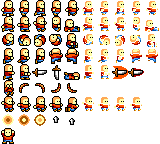
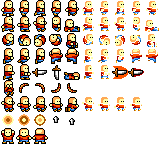
Partial implementation of door

Changed region(s): [[0.0938, 0.8889, 0.3125, 1.0]]

diff --git a/src/door.js b/src/door.js
@@ -1,0 +1,109 @@
+/**
+ * A Graveyard for Fools
+ * 
+ * (c) 2020 Jani Nykänen
+ */
+
+import { Flip } from "./core/canvas.js";
+import { Sprite } from "./core/sprite.js";
+import { TransitionType } from "./core/transition.js";
+import { RGB, Vector2 } from "./core/vector.js";
+import { InteractableObject } from "./interactableobject.js";
+
+
+export class Door extends InteractableObject {
+
+
+    constructor(x, y, inside, id) {
+
+        super(x, y);
+
+        this.active = false;
+
+        this.inside = inside;
+        this.link = null;
+
+        this.spr = new Sprite(32, 32);
+        this.hitbox = new Vector2(8, 32);
+
+        this.id = id;
+
+        this.isDoor = true;
+
+        this.open = inside;
+        this.opened = inside;
+    }
+
+
+    linkDoor(o) {
+
+        this.link = o;
+    }
+
+
+    update(ev) {
+
+        const OPEN_SPEED = 8;
+
+        if (this.open && !this.opened) {
+
+            this.spr.animate(0, 0, 4, OPEN_SPEED, ev.step);
+            this.opened = this.spr.frame == 4;
+        }
+    }
+
+
+    draw(c) {
+
+        if (!this.inCamera || this.opened) return;
+
+        this.spr.draw(c, c.bitmaps["door"],
+            this.pos.x-16, this.pos.y-16,
+            Flip.None);
+    }
+
+    
+    triggerEvent(message, pl, cam, ev) {
+
+        let loc = ev.assets.localization["en"];
+
+        if (!this.open) {
+
+            if (pl.progress.keys <= 0) {
+
+                message.addMessage(loc["needKey"]).activate(ev => {}, false);
+                return;
+            }
+
+            message.addMessage(
+                loc["openDoor"],
+                ).activate((ev) => {
+
+                this.open = true;
+                this.opened = false;
+                pl.progress.addKeys(-1);
+
+            }, true);
+            return;
+        }     
+
+        ev.tr.activate(true, TransitionType.CircleOutside, 
+            1.0/30.0, 
+            (ev) => {
+
+            let p = this.link.pos.clone();
+            p.y += 8;
+
+            pl.moveTo(p, cam);
+
+            pl.setDoorPose(true);
+
+        }, new RGB(0, 0, 0));
+        ev.tr.setCenter(this.pos.x % 160, this.pos.y % 144);
+
+        pl.pos.x = this.pos.x;
+
+        pl.setDoorPose(false);
+    }
+
+}

diff --git a/src/objectmanager.js b/src/objectmanager.js
@@ -9,6 +9,7 @@ import { Bullet } from "./bullet.js";
 import { Chest } from "./chest.js";
 import { Collectible } from "./collectible.js";
 import { clamp, nextObject } from "./core/util.js";
+import { Door } from "./door.js";
 import { getEnemyType } from "./enemytypes.js";
 import { FlyingText } from "./flyingtext.js";
 import { NPC } from "./npc.js";
@@ -29,6 +30,26 @@ export class ObjectManager {
         this.interactableObjects = new Array();
 
         this.progress = progress;
+    }
+
+
+    linkDoors() {
+
+        for (let o of this.interactableObjects) {
+
+            if (o.isDoor != undefined) {
+
+                for (let p of this.interactableObjects) {
+
+                    if (p.isDoor != undefined && p.id == o.id &&
+                        p.inside != o.inside) {
+
+                        p.linkDoor(o);
+                        o.linkDoor(p);
+                    }
+                }
+            }
+        }
     }
 
 
@@ -81,6 +102,13 @@ export class ObjectManager {
                     this.interactableObjects.push(new NPC(x*16+8, y*16+8, id));
                     break;
 
+                // Door
+                case 38:
+                case 39:
+
+                    this.interactableObjects.push(new Door(x*16+8, y*16, tid == 39, id));
+                    break;
+
                 default:
                     break;
                 }
@@ -105,6 +133,8 @@ export class ObjectManager {
                 }
             }
         }
+
+        this.linkDoors();
     }
 
 
@@ -176,7 +206,7 @@ export class ObjectManager {
 
             o.checkIfInCamera(cam);
             o.update(ev);
-            o.playerCollision(message, this.player, ev);
+            o.playerCollision(message, this.player, cam, ev);
         }
 
         for (let b of this.bullets) {

diff --git a/src/interactableobject.js b/src/interactableobject.js
@@ -22,6 +22,8 @@ export class InteractableObject {
         this.flip = Flip.None;
 
         this.disabled = false;
+
+        this.hitbox = new Vector2(16, 16);
     }
 
 
@@ -32,11 +34,11 @@ export class InteractableObject {
 
 
     playerCollisionEvent(pl, ev) {}
-    triggerEvent(pl, ev) {}
+    triggerEvent(pl, cam, ev) {}
     playerEvent(pl, ev) {}
 
 
-    playerCollision(message, pl, ev) {
+    playerCollision(message, pl, cam, ev) {
 
         if (this.disabled || !this.inCamera || pl.dying) 
             return false;
@@ -46,7 +48,8 @@ export class InteractableObject {
         if (ev == null) 
             return false;
 
-        if (pl.overlay(this.pos.x-8, this.pos.y-8, 16, 16)) {
+        if (pl.overlay(this.pos.x-this.hitbox.x/2, this.pos.y-this.hitbox.y/2, 
+            this.hitbox.x, this.hitbox.y)) {
 
             this.playerCollisionEvent(pl, ev);
 
@@ -60,7 +63,7 @@ export class InteractableObject {
                     ev.audio.playSample(ev.assets.samples["activate"], 0.50);
 
                     pl.disableArrow();
-                    this.triggerEvent(message, pl, ev);
+                    this.triggerEvent(message, pl, cam, ev);
                 }
             }
             return true;

diff --git a/src/savepoint.js b/src/savepoint.js
@@ -5,6 +5,7 @@
  */
 
 import { Flip } from "./core/canvas.js";
+import { Vector2 } from "./core/vector.js";
 import { InteractableObject } from "./interactableobject.js";
 
 
@@ -16,6 +17,8 @@ export class Savepoint extends InteractableObject {
         super(x, y);
 
         this.active = false;
+
+        this.hitbox = new Vector2(10, 16);
     }
 
 
@@ -59,7 +62,7 @@ export class Savepoint extends InteractableObject {
     }
 
     
-    triggerEvent(message, pl, ev) {
+    triggerEvent(message, pl, cam, ev) {
         
         let loc = ev.assets.localization["en"];
 
@@ -67,7 +70,7 @@ export class Savepoint extends InteractableObject {
             loc["saveGame"],
             ).activate((ev) => {
 
-                message.addMessage(loc["badResult"]).activate(ev => {}, false) 
+                message.addMessage(loc["badResult"]).activate(ev => {}, false);
 
         }, true);
 

diff --git a/src/npc.js b/src/npc.js
@@ -5,6 +5,7 @@
  */
 
 import { Flip } from "./core/canvas.js";
+import { Vector2 } from "./core/vector.js";
 import { InteractableObject } from "./interactableobject.js";
 
 
@@ -18,6 +19,8 @@ export class NPC extends InteractableObject {
         this.messageId = messageId;
 
         this.spr.setFrame((((x / 16) | 0) + ((y / 16) | 0)) % 4, 0);
+
+        this.hitbox = new Vector2(10, 16);
     }
 
 
@@ -43,7 +46,7 @@ export class NPC extends InteractableObject {
     }
 
     
-    triggerEvent(message, pl, ev) {
+    triggerEvent(message, pl, cam, ev) {
 
         let loc = ev.assets.localization["en"];
 

diff --git a/src/chest.js b/src/chest.js
@@ -5,6 +5,7 @@
  */
 
 import { Flip } from "./core/canvas.js";
+import { Vector2 } from "./core/vector.js";
 import { InteractableObject } from "./interactableobject.js";
 
 
@@ -35,6 +36,8 @@ export class Chest extends InteractableObject {
             this.type*2);
 
         this.itemWaitTime = 0;
+
+        this.hitbox = new Vector2(12, 16);
     }
 
 
@@ -62,7 +65,7 @@ export class Chest extends InteractableObject {
     }
 
     
-    triggerEvent(message, pl, ev) {
+    triggerEvent(message, pl, cam, ev) {
 
         const TYPE_NAMES = ["heart", "item", "key", "orb"];
         const OFFSET = 8;

diff --git a/src/player.js b/src/player.js
@@ -1187,4 +1187,19 @@ export class Player extends CollisionObject {
 
         this.obtainedItem = new Vector2(id, type);
     }
+
+
+    setDoorPose(inside) {
+
+        this.spr.setFrame(inside ? 1 : 2, 8);
+    }
+
+
+    moveTo(p, cam) {
+
+        this.pos = p.clone();
+        this.stopMovement();
+
+        cam.setPosition((this.pos.x / 160) | 0, (this.pos.y / 144) | 0);
+    }
 }
